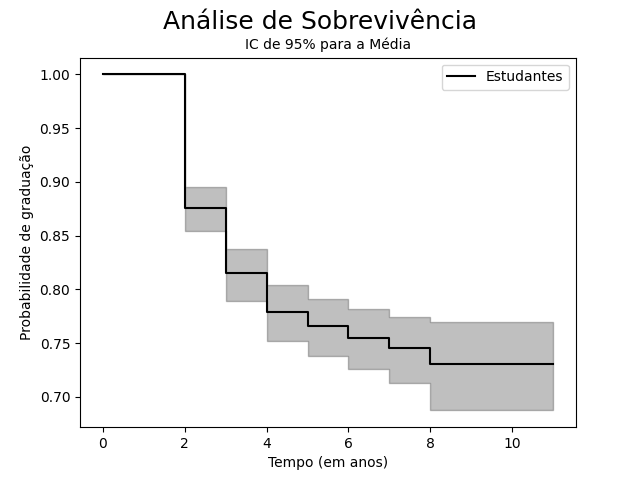
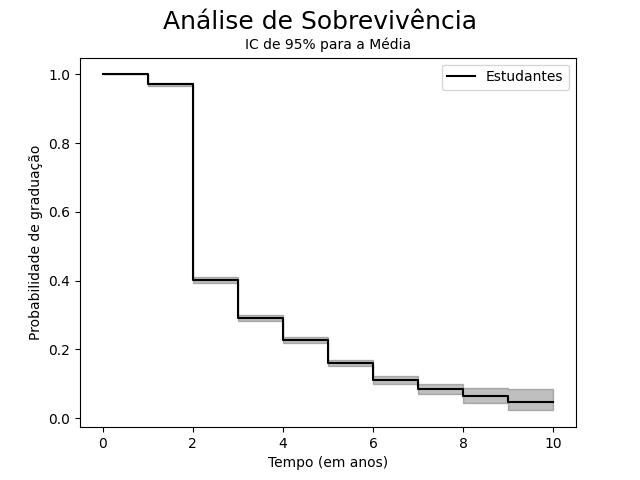
Experimentos

diff --git a/generate_mc.py b/generate_mc.py
@@ -128,20 +128,20 @@ p = [[A1T, A1toA2, 0.0, 0.0, 0.0, A1toA1R, 0.0, 0.0, 0.0, 0.0, 0.0, 0.0, 0.0, A1
 #      [0.0, 0.0, 1.0, 0.0],
 #      [0.0, 0.0, 0.0, 1.0]]
 
+#states = ['A1', 'A2', 'A3', 'A4', 'A1R', 'A2R', 'A3R', 'A4R', 'G', 'E']
+# states = ['A1', 'A2', 'A3', 'A4', 'T', 'G', 'E']
+# state = np.array([[1, 0, 0, 0, 0, 0, 0]])
+# p = [[0.057, 0.31, 0.0, 0.0, 0.603, 0.0, 0.03],
+#      [0.0, 0.187, 0.528, 0.0, 0.285, 0.0, 0.0],
+#      [0.0, 0.0, 0.012, 0.563, 0.097, 0.328, 0.0],
+#      [0.0, 0.0, 0.0, 0.039, 0.094, 0.814, 0.053],
+#      [0.001, 0.036, 0.02, 0.0, 0.0, 0.003, 0.94],
+#      [0.0, 0.0, 0.0, 0.0, 0.0, 1.0, 0.0],
+#      [0.0, 0.0, 0.0, 0.0, 0.0, 0.0, 1.0]]
 
 
-#states = ['A1', 'A2', 'A3', 'A4', 'A1R', 'A2R', 'A3R', 'A4R', 'G', 'W']
-states = ['A1', 'A2', 'A3', 'A4', 'T', 'G', 'W']
-state = np.array([[1, 0, 0, 0, 0, 0, 0]])
-p = [[0.057, 0.31, 0.0, 0.0, 0.603, 0.0, 0.03],
-     [0.0, 0.187, 0.528, 0.0, 0.285, 0.0, 0.0],
-     [0.0, 0.0, 0.012, 0.563, 0.097, 0.328, 0.0],
-     [0.0, 0.0, 0.0, 0.039, 0.094, 0.814, 0.053],
-     [0.001, 0.036, 0.02, 0.0, 0.0, 0.003, 0.94],
-     [0.0, 0.0, 0.0, 0.0, 0.0, 1.0, 0.0],
-     [0.0, 0.0, 0.0, 0.0, 0.0, 0.0, 1.0]]
-
-#Chance de graduar 68,12%
+# Esse aqui
+# Chance de graduar 68,12%
 # states = ['Inicio', 'A1', 'A2', 'A3', 'A4', 'G', 'E']
 # state = np.array([[1, 0, 0, 0, 0, 0, 0]])
 # p = [[0.0, 0.89, 0.09, 0.02, 0.0, 0.0, 0.0],
@@ -241,7 +241,7 @@ print(p)
 
 
 
-#Testes
+# Testes
 
 # def prob_absor(p, N):
 #     # f=NR
@@ -269,9 +269,9 @@ print(p)
 #
 # print("\n Duração média esperada até graduação:")
 # # Sem estados retidos
-# # print(np.round(np.trace(np.asarray(N)), 3))
+# print(np.round(np.trace(np.asarray(N)), 3))
 # # Com estados retidos
-# print(np.round(np.trace((np.asarray(N) / 2)), 3))
+# # print(np.round(np.trace((np.asarray(N) / 2)), 3))
 #
 # probGE = prob_absor(p, N)
 # for i in range(len(probGE)):

diff --git a/simulation.py b/simulation.py
@@ -225,7 +225,7 @@ quantAlunos = 10000
 
 
 # Simulação Geral
-time, event = Simu(quantAlunos, 'matrix/matrixPadrao.csv')
+time, event = Simu(quantAlunos, 'matrix/matrixBrezav.csv')
 
 sobrevivencia([time], [event], ['Estudantes'], "Análise de Sobrevivência")
 
